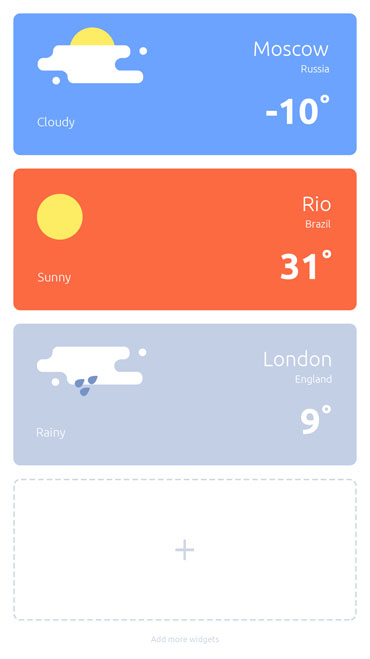
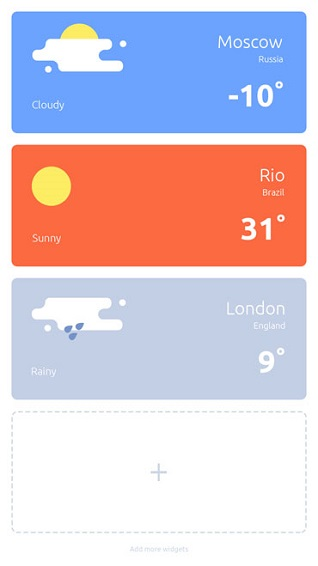
new commit

diff --git a/index.html b/index.html
@@ -8,8 +8,11 @@
 
     <!-- Bootstrap CSS -->
     <link rel="stylesheet" href="css/bootstrap.min.css">
+    <!-- Swiper Slider CSS -->
+    <link rel="stylesheet" href="https://unpkg.com/swiper/css/swiper.min.css">
     <!-- Fontawesome CSS -->
     <link rel="stylesheet" href="css/font-awesome.min.css">
+    <link rel="stylesheet" href="css/responsive.css">
     <link rel="stylesheet" href="style.css">
     <title>Fun Weather</title>
 </head>
@@ -156,24 +159,22 @@
             </div>
             <div class="row">
                 <div class="col-md-12">
-                    <div class="widget-inner">
-                        <div class="widget01">
-                            <img src="images/widget02.jpg" alt="">
+                    <div class="swiper-container">
+                        <div class="swiper-wrapper">
+                            <div class="swiper-slide">
+                                <img src="images/widget02.jpg" alt="">
+                            </div>
+                            <div class="swiper-slide">
+                                <img src="images/widget01.jpg" alt="">
+                            </div>
+                            <div class="swiper-slide">
+                                <img src="images/widget03.jpg" alt="">
+                            </div>
                         </div>
-                        <div class="widget02">
-                            <img src="images/widget01.jpg" alt="">
-                        </div>
-                        <div class="widget03">
-                            <img src="images/widget03.jpg" alt="">
-                        </div>
-                        <!--Slider Navigation-->
-                            <a href="#" class="next-nav">
-                                <i class="fa fa-angle-right"></i>
-                            </a>
-                            <a href="#" class="prev-nav">
-                                <i class="fa fa-angle-left"></i>
-                            </a>
-                        <!--Slider Navigation-->
+
+                        <!-- Add Arrows -->
+                        <div class="swiper-button-prev"></div>
+                        <div class="swiper-button-next"></div>
                     </div>
                 </div>
             </div>
@@ -419,6 +420,19 @@
     <script src="js/jquery-3.4.1.min.js.js"></script>
     <script src="js/popper.min.js"></script>
     <script src="js/bootstrap.min.js"></script>
+    <script src="https://unpkg.com/swiper/js/swiper.min.js"></script>
+    <!-- Initialize Swiper -->
+    <script>
+        var swiper = new Swiper('.swiper-container', {
+            grabCursor: true,
+            centeredSlides: true,
+            slidesPerView: 'auto',
+            navigation: {
+                nextEl: '.swiper-button-next',
+                prevEl: '.swiper-button-prev',
+            },
+        });
+    </script>
 </body>
 
 </html>

diff --git a/style.css b/style.css
@@ -144,64 +144,28 @@ header .banner .banner-inner .double-button button.btn-down {
 /*Feature css code*/
 
 /*Widget css code*/
-.widget-inner {
-    position: relative;
-    height: 650px;
-    margin-bottom: 90px;
+.swiper-container{
+    height: 800px;
+}
+.swiper-wrapper {
+    align-items: center;
 }
 
-.widget-inner .widget01,
-.widget-inner .widget02,
-.widget-inner .widget03 {
-    position: absolute;
-    top: 0px;
-    right: 0px;
-    bottom: 0px;
-    left: 0px;
-    margin: auto;
-    width: 30%;
-    height: auto;
-    box-shadow: 0px 25px 25px #d0d0d0;
-}
-
-.widget-inner .widget02 {
-    z-index: 3;
-}
-
-.widget-inner .widget01 {
-    z-index: 1;
-    right: 450px;
+.swiper-slide {
+    width: 318px;
     height: 565px;
+    text-align: center;
 }
 
-.widget-inner .widget03 {
-    z-index: 2;
-    left: 500px;
-    height: 565px;
+.swiper-slide img{
+    width: 100%;
+    height: 100%;
+    box-shadow: 0px 25px 25px #aaa;
 }
-
-.widget-inner .prev-nav {
-    position: absolute;
-    top: 0px;
-    left: 0px;
-    bottom: 0px;
-    margin: auto;
-    font-size: 40px;
-    width: 40px;
-    height: 40px;
-    color: #aaa;
-}
-
-.widget-inner .next-nav {
-    position: absolute;
-    top: 0px;
-    right: 0px;
-    bottom: 0px;
-    margin: auto;
-    font-size: 40px;
-    width: 40px;
-    height: 40px;
-    color: #aaa;
+.swiper-slide-active{
+    transform: scale(1.2);
+    transition: .5s;
+    z-index: 9999;
 }
 
 /*Widget css code*/

diff --git a/css/responsive.css b/css/responsive.css
@@ -1,0 +1,66 @@
+
+/* 
+  ##Device = Desktops
+  ##Screen = 1281px to higher resolution desktops
+*/
+
+@media (min-width: 1281px) {
+  
+    //CSS
+    
+  }
+  
+  /* 
+    ##Device = Laptops, Desktops
+    ##Screen = B/w 1025px to 1280px
+  */
+  
+  @media (min-width: 1025px) and (max-width: 1280px) {
+    
+    //CSS
+    
+  }
+  
+  /* 
+    ##Device = Tablets, Ipads (portrait)
+    ##Screen = B/w 768px to 1024px
+  */
+  
+  @media (min-width: 768px) and (max-width: 1024px) {
+    
+    //CSS
+    
+  }
+  
+  /* 
+    ##Device = Tablets, Ipads (landscape)
+    ##Screen = B/w 768px to 1024px
+  */
+  
+  @media (min-width: 768px) and (max-width: 1024px) and (orientation: landscape) {
+    
+    //CSS
+    
+  }
+  
+  /* 
+    ##Device = Low Resolution Tablets, Mobiles (Landscape)
+    ##Screen = B/w 481px to 767px
+  */
+  
+  @media (min-width: 481px) and (max-width: 767px) {
+    
+    //CSS
+    
+  }
+  
+  /* 
+    ##Device = Most of the Smartphones Mobiles (Portrait)
+    ##Screen = B/w 320px to 479px
+  */
+  
+  @media (min-width: 320px) and (max-width: 480px) {
+    
+    //CSS
+    
+  }
